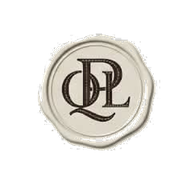
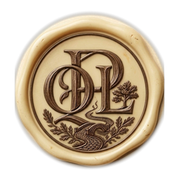
Deploy Annika's new heirloom seal variations and brand colors across website

diff --git a/index.html b/index.html
@@ -7,10 +7,10 @@
   <meta name="description" content="Quiet Path Living offers handcrafted affirmation tags, framed verse signs, evening poetry prints, and heirloom tabletop decor to bring unhurried peace and mindful grace to your home." />
   
   <!-- Favicon / App Icons -->
-  <link rel="icon" type="image/x-icon" href="favicon.ico?v=3" />
-  <link rel="icon" type="image/png" sizes="32x32" href="favicon-32x32.png?v=3" />
-  <link rel="icon" type="image/png" sizes="16x16" href="favicon-16x16.png?v=3" />
-  <link rel="apple-touch-icon" sizes="180x180" href="apple-touch-icon.png?v=3" />
+  <link rel="icon" type="image/x-icon" href="favicon.ico?v=4" />
+  <link rel="icon" type="image/png" sizes="32x32" href="favicon-32x32.png?v=4" />
+  <link rel="icon" type="image/png" sizes="16x16" href="favicon-16x16.png?v=4" />
+  <link rel="apple-touch-icon" sizes="180x180" href="apple-touch-icon.png?v=4" />
 
   <!-- Open Graph / Social Media Preview -->
   <meta property="og:type" content="website" />
@@ -18,7 +18,7 @@
   <meta property="og:title" content="Quiet Path Living | Mindful Home &amp; Heirloom Decor" />
   <meta property="og:description" content="Handcrafted words and quiet grace for slow mornings, warm gatherings, and peaceful homes." />
   <meta property="og:site_name" content="Quiet Path Living" />
-  <meta property="og:image" content="https://quietpathliving.com/logo-seal.png?v=3" />
+  <meta property="og:image" content="https://quietpathliving.com/logo-seal.png?v=4" />
 
   <!-- Tailwind CSS CDN -->
   <script src="https://cdn.tailwindcss.com"></script>
@@ -28,29 +28,36 @@
         extend: {
           colors: {
             espresso: {
-              900: '#1E1815',
-              800: '#2A221E',
-              700: '#3C302A',
-              600: '#4E4039',
-              500: '#6D5C52',
+              900: '#1B140E',
+              800: '#2A1E17',
+              700: '#3D2F25',
+              600: '#534237',
+              500: '#756052',
             },
             cream: {
-              50: '#FFFDF9',
-              100: '#FAF7F2',
+              50: '#FDFBF7',
+              100: '#FAF6EE',
               200: '#F4EFE6',
               300: '#EBE3D5',
             },
-            linen: '#E3DAC9',
-            stitch: '#B59E87',
+            linen: '#E2D9C8',
+            stitch: '#B8A48F',
             sage: {
-              DEFAULT: '#75816F',
-              soft: '#EEF1EB',
-              dark: '#556050',
+              DEFAULT: '#2D4E3A',
+              soft: '#EEF3EF',
+              dark: '#1F382A',
+              light: '#466D55',
+            },
+            bronze: {
+              DEFAULT: '#5C3F2B',
+              dark: '#3A271C',
+              light: '#7A573F',
             },
             wax: {
-              DEFAULT: '#8C4830',
-              dark: '#6D3421',
-              light: '#A45238',
+              DEFAULT: '#2D4E3A',
+              dark: '#1F382A',
+              light: '#466D55',
+              bronze: '#5C3F2B',
             }
           },
           fontFamily: {
@@ -110,7 +117,7 @@
         <div class="flex items-center flex-col text-center justify-center py-1">
           <a href="#home" class="group flex flex-col items-center">
             <div class="relative flex items-center justify-center mb-1">
-              <img src="logo-seal.png?v=3" alt="Quiet Path Living Monogram Seal" class="w-16 h-16 sm:w-20 sm:h-20 object-contain transition-transform duration-500 group-hover:scale-105 filter drop-shadow-sm" />
+              <img src="logo-seal.png?v=4" alt="Quiet Path Living Monogram Seal" class="w-16 h-16 sm:w-20 sm:h-20 object-contain transition-transform duration-500 group-hover:scale-105 filter drop-shadow-sm" />
             </div>
             <span class="font-serif text-2xl sm:text-3xl tracking-[0.18em] font-medium uppercase text-espresso-900">
               Quiet Path Living
@@ -153,7 +160,7 @@
       <div>
         <div class="flex items-center justify-between pb-6 border-b border-linen">
           <div class="flex items-center space-x-3">
-            <img src="logo-seal.png" alt="QPL" class="w-9 h-9 object-contain" />
+            <img src="logo-seal.png?v=4" alt="QPL" class="w-9 h-9 object-contain" />
             <span class="font-serif text-lg tracking-widest text-espresso-900 font-semibold uppercase">Quiet Path</span>
           </div>
           <button id="closeMobileMenu" aria-label="Close menu" class="p-2 text-espresso-800 hover:text-espresso-900">
@@ -196,7 +203,7 @@
         <!-- Hero Text Column -->
         <div class="lg:col-span-7 text-center lg:text-left space-y-6">
           <div class="inline-flex items-center space-x-2 px-3.5 py-1.5 rounded-full bg-cream-200/80 border border-linen text-xs uppercase tracking-widest text-espresso-700">
-            <img src="logo-seal.png" alt="QPL" class="w-4 h-4 object-contain" />
+            <img src="logo-seal.png?v=4" alt="QPL" class="w-4 h-4 object-contain" />
             <span>Mindful Home &amp; Heirloom Decor</span>
           </div>
 
@@ -256,7 +263,7 @@
               
               <!-- Wax Seal Stamp Accent in top right -->
               <div class="absolute -top-3 -right-3 z-20">
-                <img src="logo-seal.png" alt="QPL Monogram Seal" class="w-16 h-16 object-contain rotate-12 drop-shadow-md" />
+                <img src="logo-seal-green.png?v=4" alt="QPL Heirloom Wax Seal" class="w-16 h-16 sm:w-18 sm:h-18 object-contain rotate-12 drop-shadow-md" />
               </div>
 
               <!-- Card Header -->
@@ -688,7 +695,7 @@
           <div class="backface-hidden absolute inset-0 bg-cream-50 rounded-xl border-stitch-double deckled-edge-heavy p-8 flex flex-col justify-between linen-card text-center select-none">
             <div class="flex items-center justify-between border-b border-dashed border-stitch/40 pb-3">
               <span id="verseThemeText" class="text-xs uppercase tracking-widest text-stitch font-medium">Slow Morning</span>
-              <img src="logo-seal.png" alt="QPL" class="w-7 h-7 object-contain" />
+              <img src="logo-seal.png?v=4" alt="QPL" class="w-8 h-8 object-contain" />
               <span id="verseNumText" class="text-xs text-espresso-500 font-mono">01 / 06</span>
             </div>
 
@@ -707,6 +714,7 @@
           <!-- Card Back -->
           <div class="backface-hidden rotate-y-180 absolute inset-0 bg-espresso-800 text-cream-100 rounded-xl border border-stitch deckled-edge-heavy p-8 flex flex-col justify-between text-center select-none">
             <div class="flex items-center justify-center space-x-2 border-b border-stitch/30 pb-3">
+              <img src="logo-seal-ivory.png?v=4" alt="QPL" class="w-6 h-6 object-contain opacity-90" />
               <span class="text-xs uppercase tracking-widest text-stitch">The Maker's Blessing</span>
             </div>
 
@@ -760,7 +768,7 @@
             <!-- Inset Card -->
             <div class="bg-cream-50 p-4 rounded-lg border-stitch-fine deckled-edge rotate-[2deg] max-w-xs ml-auto -mt-12 relative z-20 shadow-lg">
               <div class="flex items-center space-x-3">
-                <img src="logo-seal.png" alt="QPL" class="w-10 h-10 object-contain flex-shrink-0" />
+                <img src="logo-seal.png?v=4" alt="QPL" class="w-12 h-12 object-contain flex-shrink-0 drop-shadow-sm" />
                 <div>
                   <span class="font-serif text-sm text-espresso-900 block font-medium">Heirloom Tradition</span>
                   <span class="text-[10px] text-espresso-500 block">Needlework & Mindful Words</span>
@@ -980,7 +988,7 @@
   <section class="py-20 md:py-28 bg-cream-100 border-t border-linen relative overflow-hidden">
     <div class="max-w-4xl mx-auto px-4 sm:px-6 lg:px-8 text-center relative z-10">
       
-      <img src="logo-seal.png" alt="QPL Monogram Seal" class="w-14 h-14 object-contain mx-auto mb-6 drop-shadow-sm" />
+      <img src="logo-seal.png?v=4" alt="QPL Monogram Seal" class="w-14 h-14 object-contain mx-auto mb-6 drop-shadow-sm" />
 
       <h2 class="font-serif text-3xl sm:text-4xl md:text-5xl text-espresso-900 font-normal mb-4 tracking-tight">
         Join our quiet community.
@@ -1022,7 +1030,7 @@
         <!-- Brand & Monogram Column -->
         <div class="space-y-4">
           <div class="flex items-center space-x-3">
-            <img src="logo-seal.png" alt="QPL" class="w-10 h-10 object-contain" />
+            <img src="logo-seal.png?v=4" alt="QPL" class="w-10 h-10 object-contain" />
             <span class="font-serif text-xl tracking-widest uppercase font-medium">Quiet Path Living</span>
           </div>
           <p class="text-xs text-cream-200/70 font-light leading-relaxed">
@@ -1128,7 +1136,7 @@
         </svg>
       </button>
 
-      <img src="logo-seal.png" alt="QPL Wax Seal" class="w-16 h-16 object-contain mx-auto mb-4 drop-shadow-md" />
+      <img src="logo-seal.png?v=4" alt="QPL Wax Seal" class="w-16 h-16 object-contain mx-auto mb-4 drop-shadow-md" />
 
       <span class="text-[10px] uppercase tracking-widest text-stitch font-semibold block mb-1">Welcome to Quiet Path Living</span>
       <h3 class="font-serif text-2xl text-espresso-900 font-normal mb-2">Your Free Affirmation Tag & Code</h3>

diff --git a/styles.css b/styles.css
@@ -3,20 +3,21 @@
 @import url('https://fonts.googleapis.com/css2?family=Cormorant+Garamond:ital,wght@0,300;0,400;0,500;0,600;0,700;1,300;1,400;1,600&family=Plus+Jakarta+Sans:wght@300;400;500;600;700&family=Playfair+Display:ital,wght@0,400;0,600;1,400;1,600&display=swap');
 
 :root {
-  --color-espresso-900: #1E1815;
-  --color-espresso-800: #2A221E;
-  --color-espresso-700: #3C302A;
-  --color-espresso-600: #4E4039;
-  --color-espresso-500: #6D5C52;
-  --color-warm-cream: #FAF7F2;
-  --color-ivory: #FFFDF9;
+  --color-espresso-900: #1B140E;
+  --color-espresso-800: #2A1E17;
+  --color-espresso-700: #3D2F25;
+  --color-espresso-600: #534237;
+  --color-espresso-500: #756052;
+  --color-warm-cream: #FAF6EE;
+  --color-ivory: #FDFBF7;
   --color-linen-light: #F4EFE6;
-  --color-linen-border: #E3DAC9;
-  --color-stitch: #B59E87;
-  --color-wax-seal: #8C4830;
-  --color-wax-seal-dark: #6D3421;
-  --color-sage: #75816F;
-  --color-sage-soft: #EEF1EB;
+  --color-linen-border: #E2D9C8;
+  --color-stitch: #B8A48F;
+  --color-wax-seal: #2D4E3A;
+  --color-wax-seal-dark: #1F382A;
+  --color-bronze: #5C3F2B;
+  --color-sage: #2D4E3A;
+  --color-sage-soft: #EEF3EF;
 }
 
 /* Base resets & typography */
